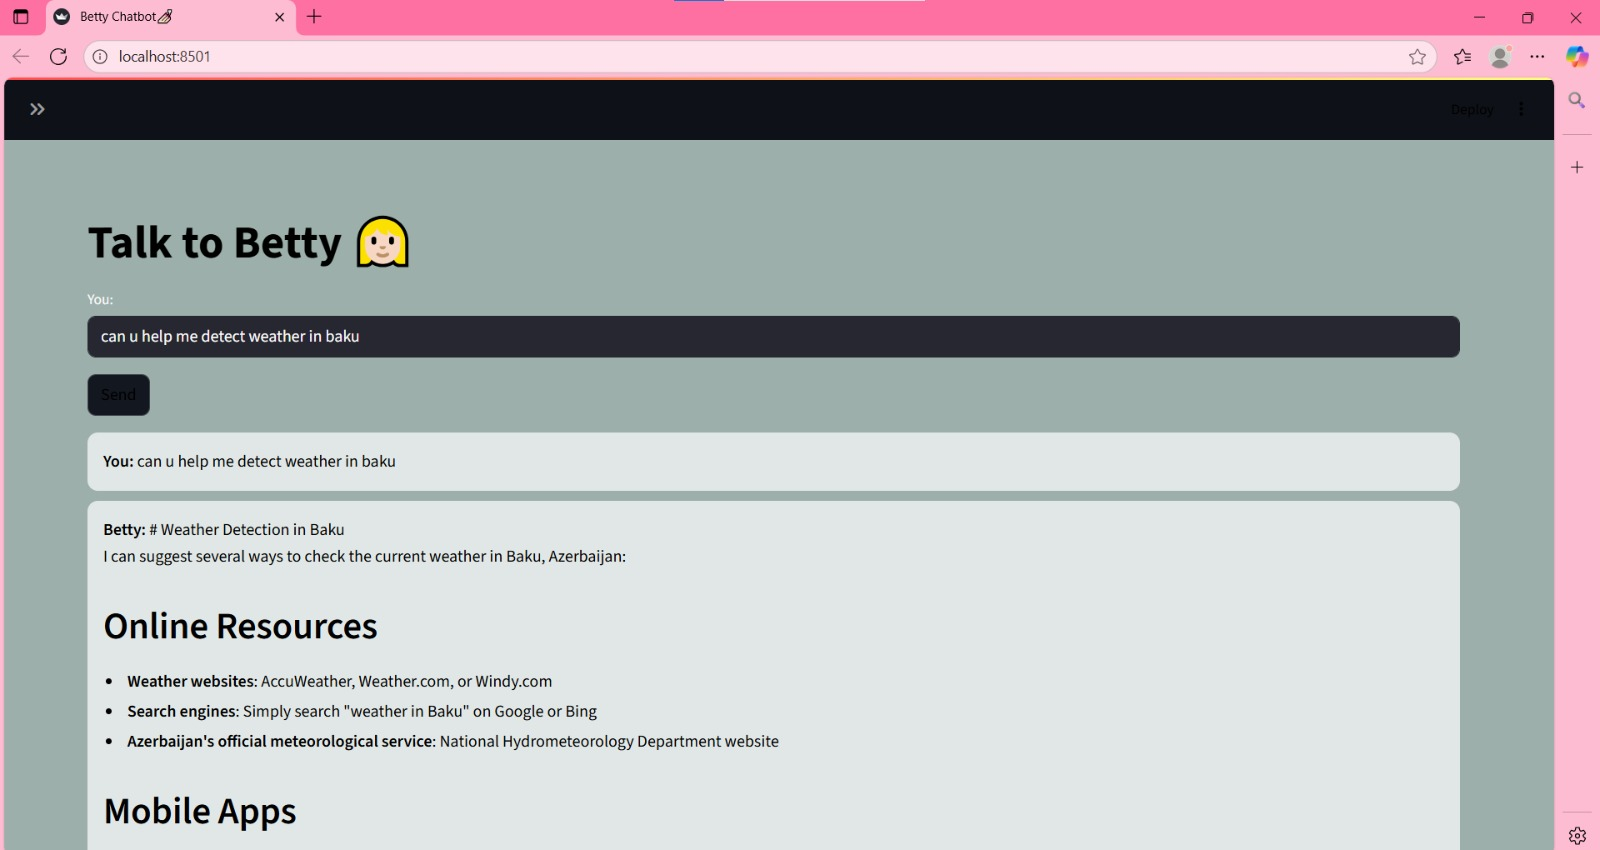
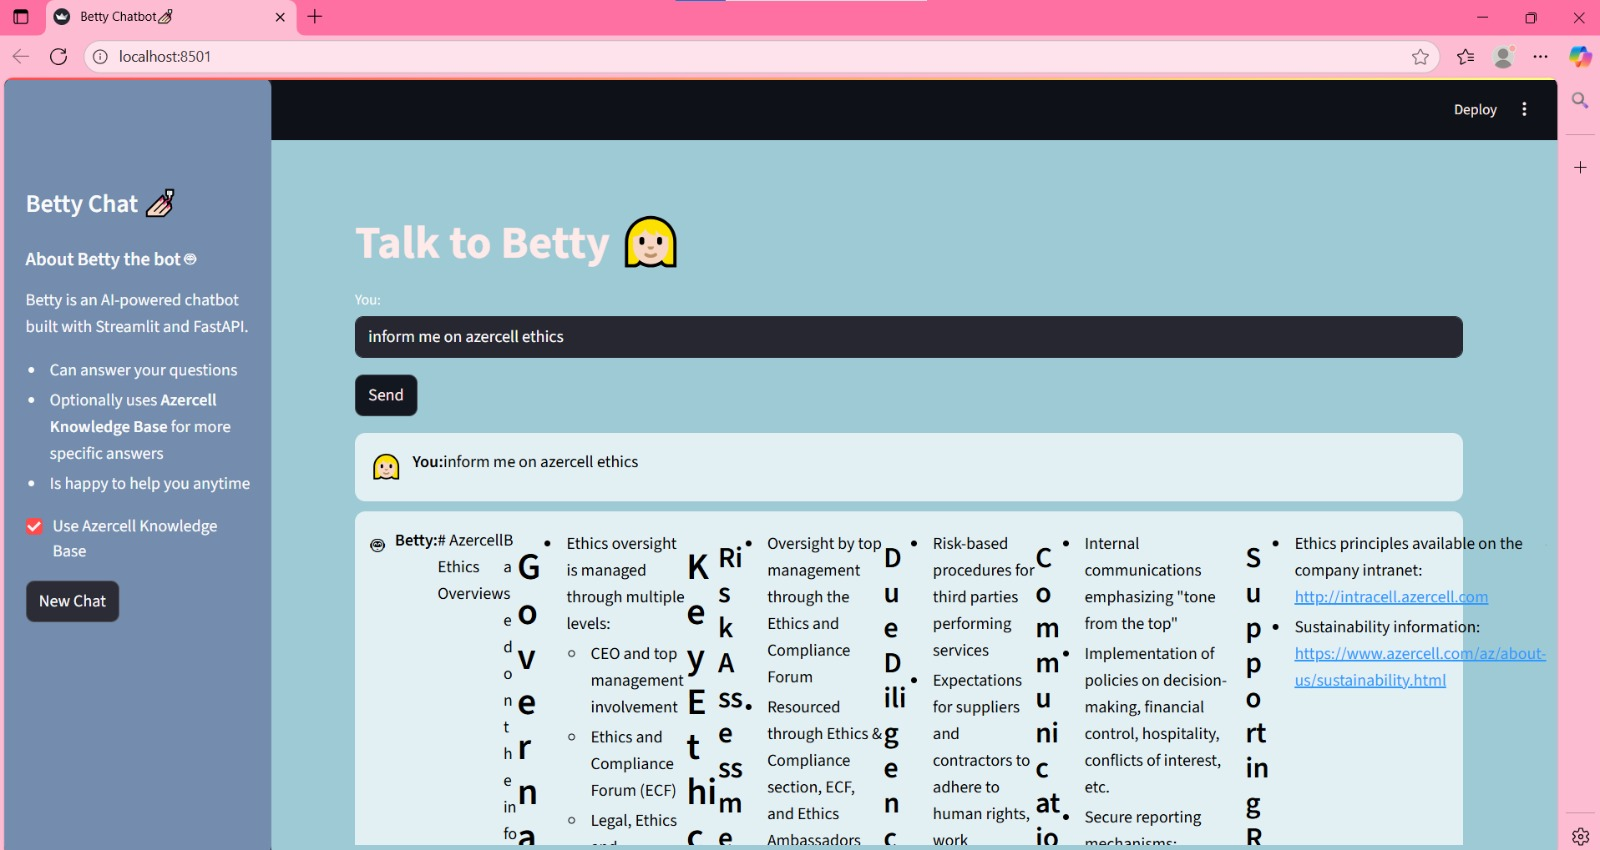
knowledge base added ft and bck changed

diff --git a/frontend/app.py b/frontend/app.py
@@ -2,20 +2,18 @@ import requests
 import streamlit as st
 
 BACKEND_URL = "http://127.0.0.1:8000/bedrock-chat"
-# if using docker
-# BACKEND_URL = os.getenv("BACKEND_URL", "http://127.0.0.1:8000/bedrock-chat")
 
-st.set_page_config(page_title="Betty Chatbot💅🏻", layout="wide")  # name of the page
+st.set_page_config(page_title="Betty Chatbot💅🏻", layout="wide")
 
-# backgorund (only color) and color of texts
+# Background and styling
 page_bg = """
 <style>
 [data-testid="stAppViewContainer"] {
-    background-color: #9CAFAA;  
-    color: black;               
+    background-color: #9ECAD6;  
+    color: #FFEAEA;               
 }
 [data-testid="stSidebar"] > div:first-child {
-    background: #D6DAC8; 
+    background: #748DAE; 
     border-radius: 10px;
     padding: 10px;
 }
@@ -25,52 +23,78 @@ page_bg = """
     border-radius: 10px;
     margin-bottom: 10px;
     color: black;
+    display: flex;
+    align-items: flex-start;
+}
+.icon {
+    font-size: 22px;
+    margin-right: 10px;
 }
 </style>
 """
 st.markdown(page_bg, unsafe_allow_html=True)
 
-# Sidebar for starting a new chat
+# Sidebar
 with st.sidebar:
-    st.title("Betty Chat")
+    st.title("Betty Chat 💅🏻")
+    st.markdown(
+        """
+        ### About Betty the bot 🤖  
+        Betty is an AI-powered chatbot built with Streamlit and FastAPI.  
+        - Can answer your questions  
+        - Optionally uses **Azercell Knowledge Base** for more specific answers  
+        - Is happy to help you anytime  
+        """
+    )
+    # Option to choose KB mode for chat
+    use_kb = st.checkbox("Use Azercell Knowledge Base", value=False)
+    # Reset session
     if st.button("New Chat"):
         st.session_state.clear()
         st.rerun()
 
-# chat history
+# Chat history
 if "history" not in st.session_state:
     st.session_state.history = []
 
 st.title("Talk to Betty 👱🏻♀")
 
-# Input box
+# Input
 user_input = st.text_input("You:", "")
 
 if st.button("Send") and user_input.strip() != "":
     st.session_state.history.append({"user": user_input, "betty": "..."})
     try:
-        response = requests.get(BACKEND_URL, params={"query": user_input})
-        if response.status_code == 200:
-            betty_response = response.text
+        # if user asks name, Betty answers directly
+        if "your name" in user_input.lower() or "who are you" in user_input.lower():
+            betty_response = "My name is Betty 💅🏻, nice to meet you!"
         else:
-            betty_response = f"Error: {response.status_code} - {response.text}"
+            # sending use_kb parameter to backend
+            response = requests.get(
+                BACKEND_URL,
+                params={"query": user_input, "use_kb": str(use_kb).lower()},
+            )
+            if response.status_code == 200:
+                betty_response = response.text
+            else:
+                betty_response = f"Error: {response.status_code} - {response.text}"
     except Exception as e:
         betty_response = f"Error connecting to backend: {str(e)}"
 
     st.session_state.history[-1]["betty"] = betty_response
 
-# Chat history (doesn't work fully will be fixed later)
+# icons visible after you write message
 for chat in st.session_state.history:
     st.markdown(
-        f"<div class='chat-box'><b>You:</b> {chat['user']}</div>",
+        f"<div class='chat-box'><span class='icon'>👱🏻♀</span><b>You:</b> {chat['user']}</div>",
         unsafe_allow_html=True,
     )
     st.markdown(
-        f"<div class='chat-box'><b>Betty:</b> {chat['betty']}</div>",
+        f"<div class='chat-box'><span class='icon'>🤖</span><b>Betty:</b> {chat['betty']}</div>",
         unsafe_allow_html=True,
     )
 
-# Clear button
+# Clear part to clear chat history
 if st.button("Clear Chat"):
     st.session_state.clear()
     st.rerun()

diff --git a/backend/app.py b/backend/app.py
@@ -1,55 +1,65 @@
-import json
-import os
-
-import boto3
-from dotenv import load_dotenv
 from fastapi import FastAPI, Query
 from fastapi.responses import PlainTextResponse
+import os
+import json
+from dotenv import load_dotenv
+import boto3
 
-# Load AWS credentials from .env (keep your access keys safe!)
-load_dotenv()
+# Load .env
+load_dotenv(dotenv_path=os.path.join(os.path.dirname(__file__), ".env"))
 
-AWS_REGION = "us-east-1"
-AWS_ACCESS_KEY_ID = os.getenv("AWS_ACCESS_KEY_ID")
-AWS_SECRET_ACCESS_KEY = os.getenv("AWS_SECRET_ACCESS_KEY")
-MODEL_ID = "us.anthropic.claude-3-7-sonnet-20250219-v1:0"
+MODEL_ID = os.getenv("MODEL_ID")
+KB_ID = os.getenv("BEDROCK_KB_ID")
+REGION = os.getenv("AWS_DEFAULT_REGION")
 
-if not MODEL_ID:
-    raise ValueError("MODEL_ID is not set")
+if not MODEL_ID or not REGION:
+    raise ValueError("MODEL_ID or AWS_DEFAULT_REGION missing in .env")
 
-# Bedrock client
+# Bedrock clients
 client = boto3.client(
     "bedrock-runtime",
-    region_name=AWS_REGION,
-    aws_access_key_id=AWS_ACCESS_KEY_ID,
-    aws_secret_access_key=AWS_SECRET_ACCESS_KEY,
+    region_name=REGION,
+    aws_access_key_id=os.getenv("AWS_ACCESS_KEY_ID"),
+    aws_secret_access_key=os.getenv("AWS_SECRET_ACCESS_KEY"),
+)
+agent_client = boto3.client(
+    "bedrock-agent-runtime",
+    region_name=REGION,
+    aws_access_key_id=os.getenv("AWS_ACCESS_KEY_ID"),
+    aws_secret_access_key=os.getenv("AWS_SECRET_ACCESS_KEY"),
 )
 
 app = FastAPI()
 
-
 def create_body_json(prompt: str):
-    return json.dumps(
-        {
-            "anthropic_version": "bedrock-2023-05-31",
-            "max_tokens": 10240,
-            "system": "",
-            "messages": [{"role": "user", "content": prompt}],
-        }
-    )
+    return json.dumps({
+        "anthropic_version": "bedrock-2023-05-31",
+        "max_tokens": 10240,
+        "system": "",
+        "messages": [{"role": "user", "content": prompt}],
+    })
 
-
-@app.get("/")
-def root():
-    return {
-        "message": "Backend running! Use /bedrock-chat?query=... to chat with Claude 3.7"
-    }
-
+def retrieve_from_kb(query: str) -> str:
+    try:
+        res = agent_client.retrieve(
+            knowledgeBaseId=KB_ID,
+            retrievalQuery={"text": query},
+        )
+        if "retrievalResults" in res and len(res["retrievalResults"]) > 0:
+            return res["retrievalResults"][0]["content"]["text"]
+        return ""
+    except Exception as e:
+        print("Error retrieving from KB:", str(e))
+        return ""
 
 @app.get("/bedrock-chat")
-def bedrock_chat(query: str = Query(...)):
+def bedrock_chat(
+    query: str = Query(...),
+    use_kb: bool = Query(False, description="Set true to use Azercell KB, false for normal chatbot")
+):
     try:
-        body_json = create_body_json(query)
+        kb_text = retrieve_from_kb(query) if use_kb else ""
+        body_json = create_body_json(query if not kb_text else f"Use the following info:\n{kb_text}\n\nUser query: {query}")
         response = client.invoke_model(
             modelId=MODEL_ID,
             contentType="application/json",
